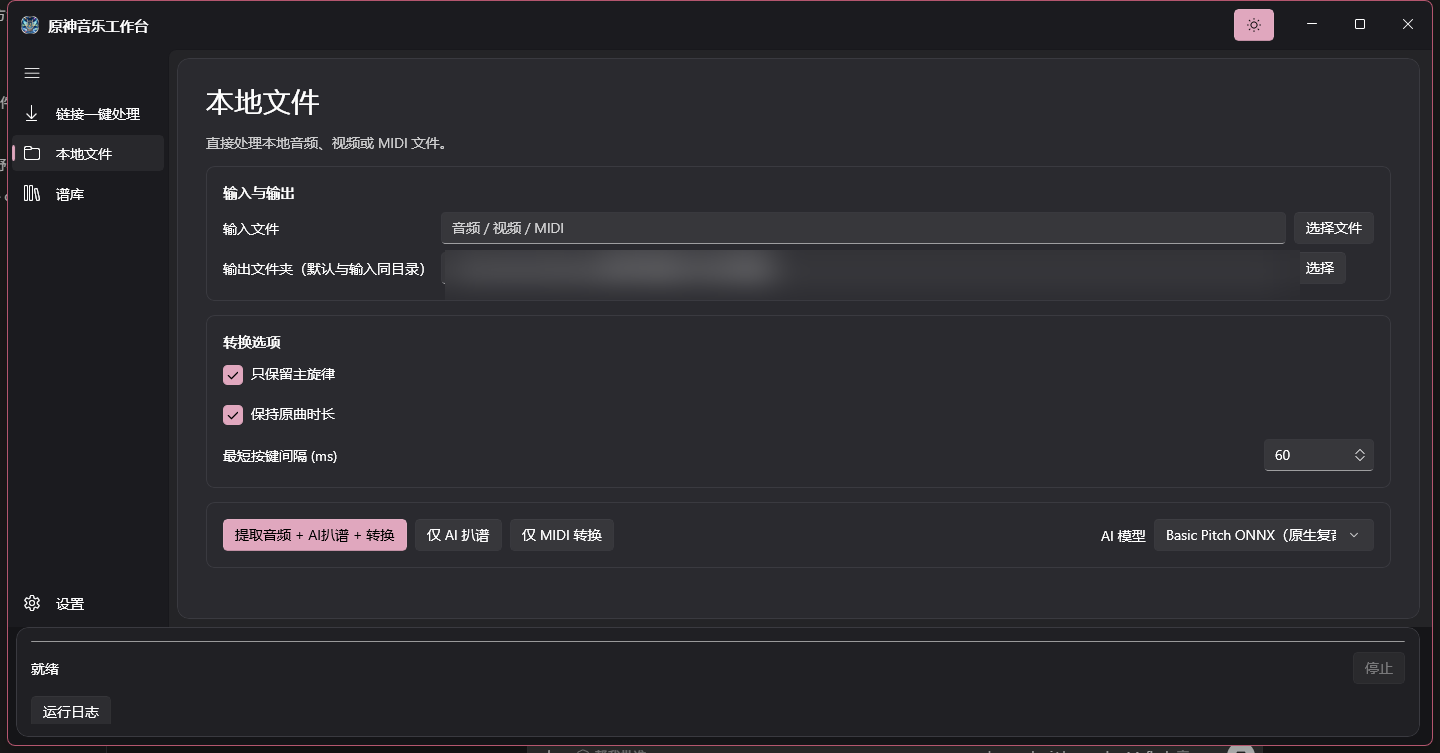
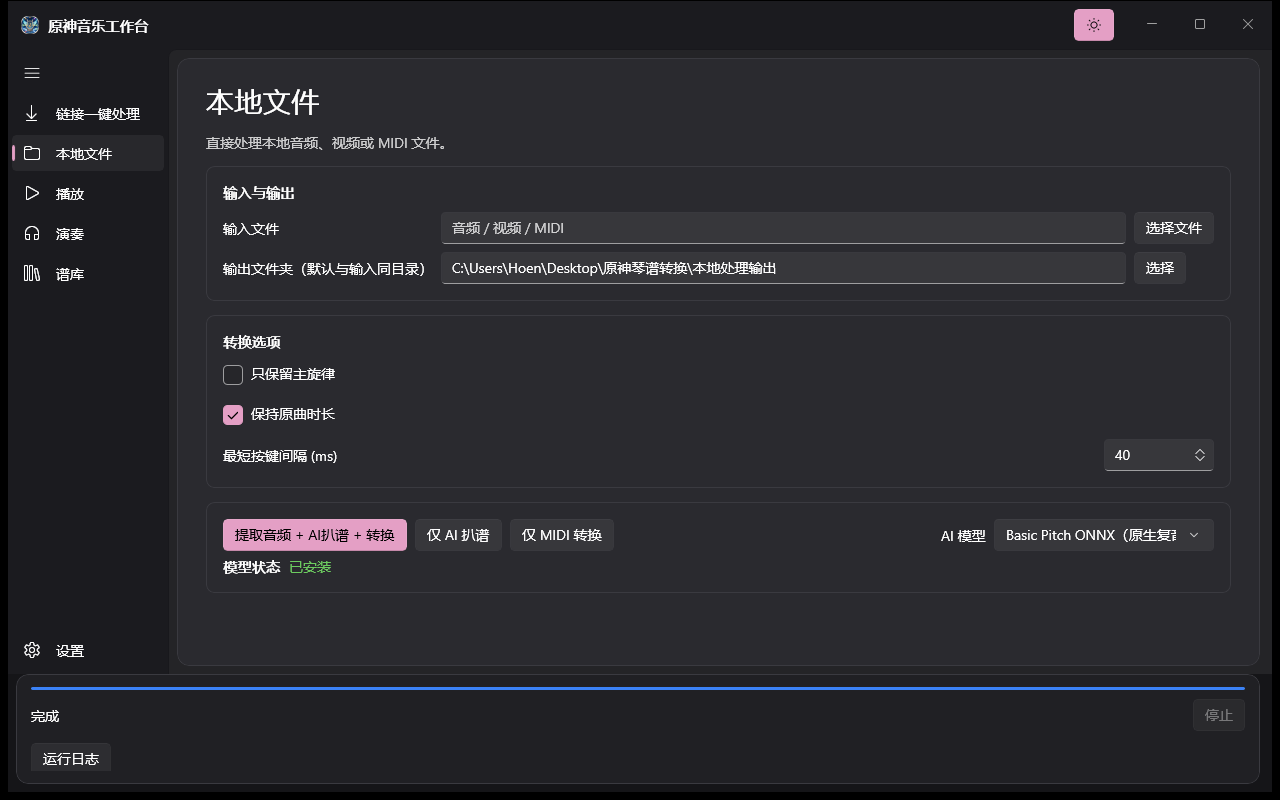
Refresh README screenshots for the current UI
- Recapture all pages from the current Release build

- Add player and performance pages to the screenshot grid

diff --git a/README.md b/README.md
@@ -38,9 +38,13 @@ Genshin Music Studio 是一个 WinUI 3 桌面应用，用于：
 |---|---|
 | ![链接一键处理](docs/images/main.png) | ![本地文件](docs/images/local.png) |
 
-| 环境与安装 | 谱库与模型评估 |
+| 播放 | 演奏 |
 |---|---|
-| ![环境与安装](docs/images/environment.png) | ![谱库](docs/images/library.png) |
+| ![播放](docs/images/player.png) | ![演奏](docs/images/performance.png) |
+
+| 谱库与模型评估 | 环境与安装 |
+|---|---|
+| ![谱库](docs/images/library.png) | ![环境与安装](docs/images/environment.png) |
 
 ## 应用内 B 站搜索
 
